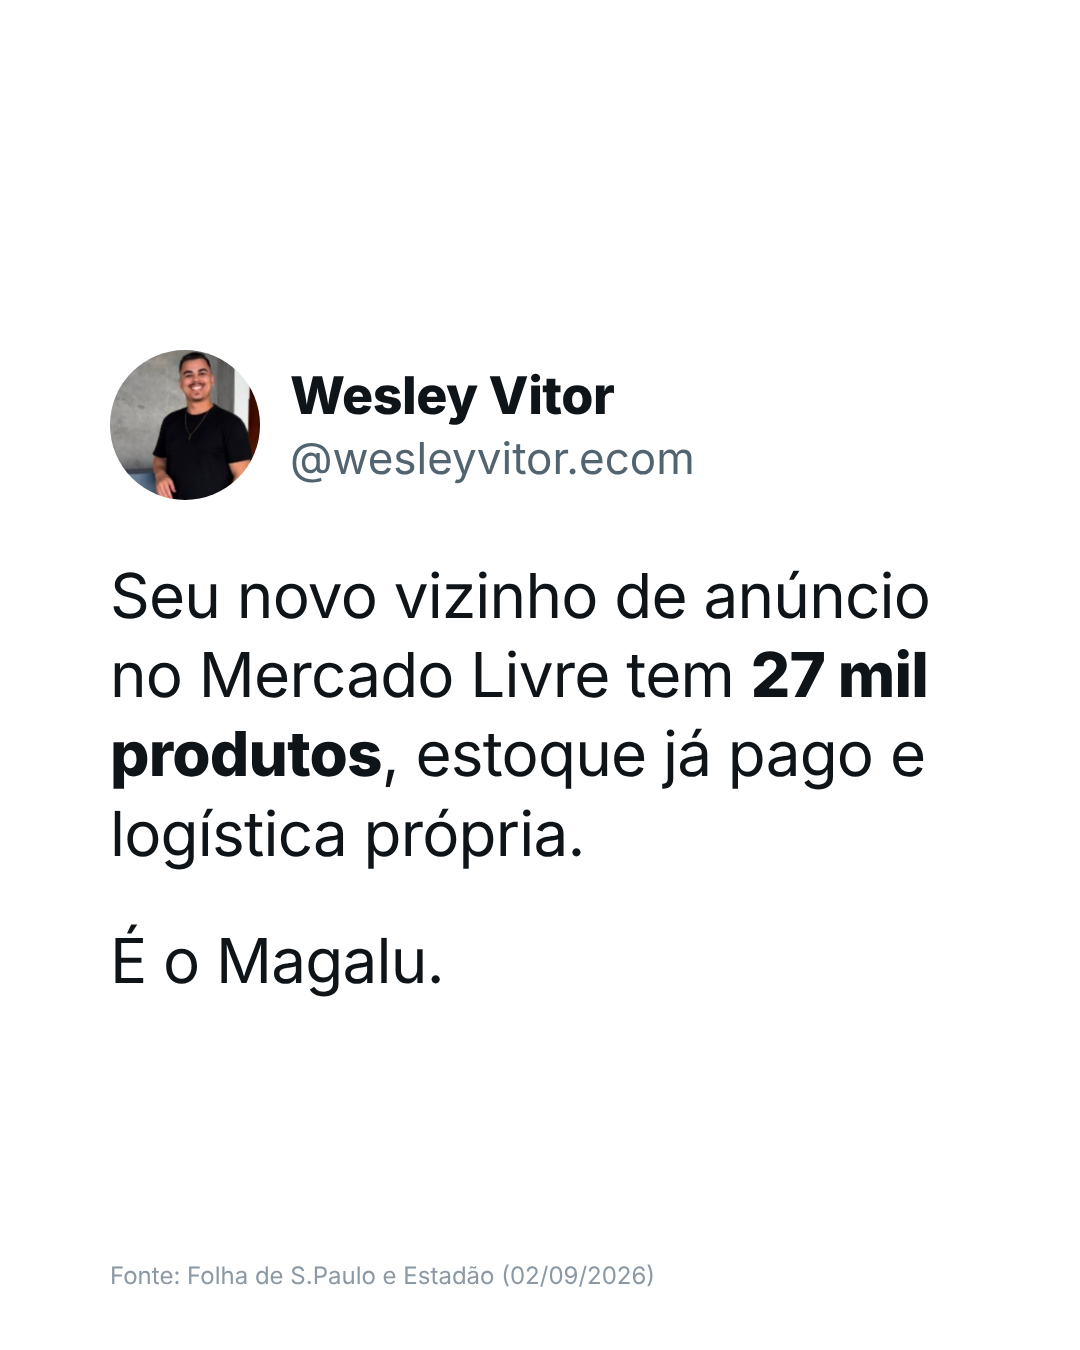
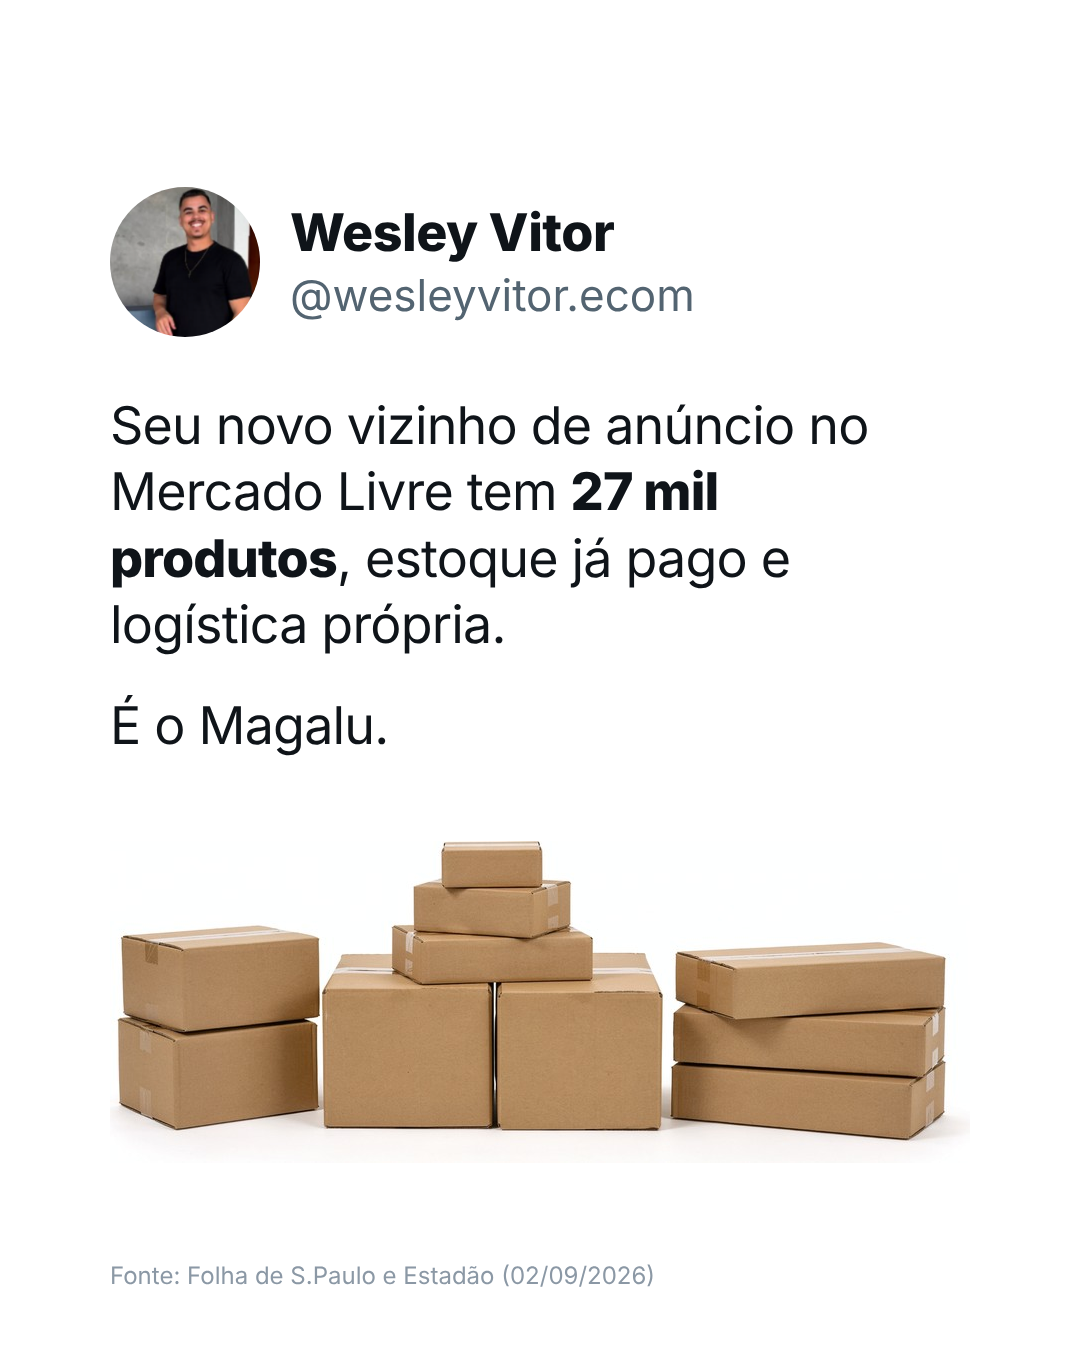
Post 19/11: adiciona ilustrações e gráfico; regra de visuais no referencias.md
Claude-Session: https://claude.ai/code/session_01GRKXnvGkuPfDaiGouVB171

Changed region(s): [[0.0917, 0.1244, 0.8861, 0.8711], [0.275, 0.1556, 0.6417, 0.2489], [0.7639, 0.3111, 0.7944, 0.3422]]

diff --git a/historico.md b/historico.md
@@ -4,6 +4,6 @@ Antes de escolher a pauta, ler esta lista inteira e NÃO repetir tema, ângulo o
 
 | Data | Tema | Gancho (1º slide) | Hashtags | Pasta |
 |---|---|---|---|---|
-| 2026-11-19 | Gigantes vendendo dentro dos marketplaces: Magalu (Amazon/ML/Shopee, 1P +14% out), Ri Happy na Shopee, custo do clique, pequeno deve ir pra nicho/kit/atendimento (sem imagem) | "Seu novo vizinho de anúncio no Mercado Livre tem 27 mil produtos…" | #vendedormarketplace #shopeebrasil #varejodigital #lojaoficial #concorrencia | posts/2026-11-19-gigantes-no-marketplace |
+| 2026-11-19 | Gigantes vendendo dentro dos marketplaces: Magalu (Amazon/ML/Shopee, 1P +14% out), Ri Happy na Shopee, custo do clique, pequeno deve ir pra nicho/kit/atendimento (com visuais: caixas no slide 1, gráfico no 3, eletrodomésticos no 6) | "Seu novo vizinho de anúncio no Mercado Livre tem 27 mil produtos…" | #vendedormarketplace #shopeebrasil #varejodigital #lojaoficial #concorrencia | posts/2026-11-19-gigantes-no-marketplace |
 | 2026-11-18 | Black Friday 2026: R$ 13,3 bi previstos, mas ticket médio caiu 13,4% (margem, kits, frete, BF no mês todo) | "A Black Friday 2026 deve movimentar R$ 13,3 bilhões…" + gráfico | #blackfriday #ecommerce #marketplace #vendasonline #empreendedorismo | posts/2026-11-17-black-friday-ticket |
 | 2026-11-17 | 5 erros que travam vendas no Mercado Livre (título, fotos, reputação, preço, Full/Flex) | "Em 2018, bastava anunciar…" | #mercadolivre #vendedormercadolivre #marketplace #ecommercebrasil #vendasonline | posts/2026-11-17-erros-ml |

diff --git a/referencias.md b/referencias.md
@@ -19,7 +19,8 @@ E-commerce, negócios, novidades, tecnologia, marketplaces (Mercado Livre, Shope
 - Plano Free do Metricool: até 20 publicações/mês
 
 ## Imagens nos posts
-- Não usar em todos: só quando somar (mais ou menos 1 a cada 2 ou 3 posts), pra variar do 100% texto.
+- Padrão definido pelo Wesley (18/11): usar visual SEMPRE que possível, dosando (sem exagero): em cada carrossel, ~2 a 4 slides com visual e o resto só texto, evitando visuais em slides seguidos demais.
+- Mistura de tipos de visual: (a) ilustração de objeto realista (Canva), (b) gráficos/barras/números desenhados em HTML (como no post de 17/11 de Black Friday), (c) elementos desenhados por código (ícones, comparativos, linhas do tempo). Variar os tipos dentro do mesmo carrossel.
 - Pode: gráficos e números desenhados por código; ilustrações/ícones/telas genéricas feitas por código (SVG/HTML); imagens geradas por IA no Canva (generate-image).
 - Não pode: fotos reais de pessoas famosas, fotos baixadas da internet, logos/marcas de terceiros, personagens.
 - Posição: dentro do modelo tweet, abaixo do nome/@ e do texto, no 1º slide ou no slide onde fizer sentido.
